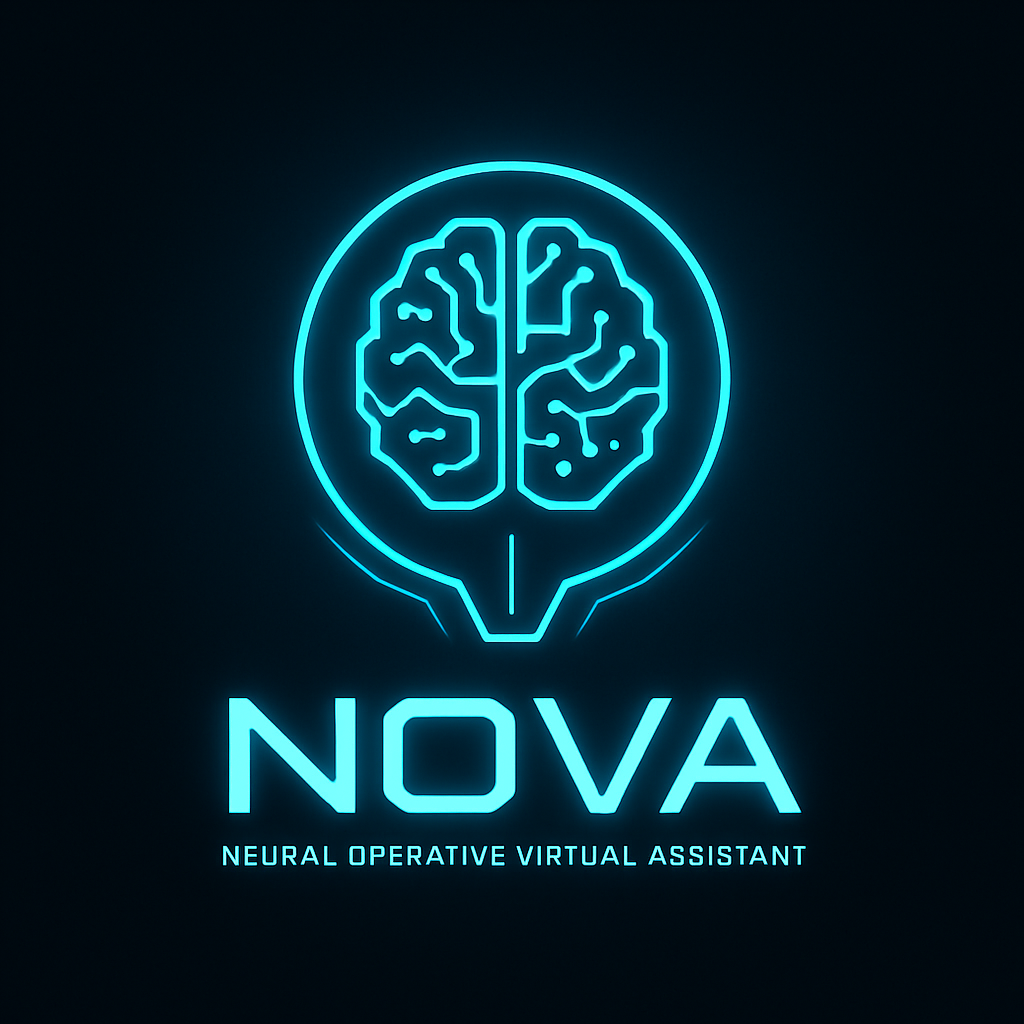
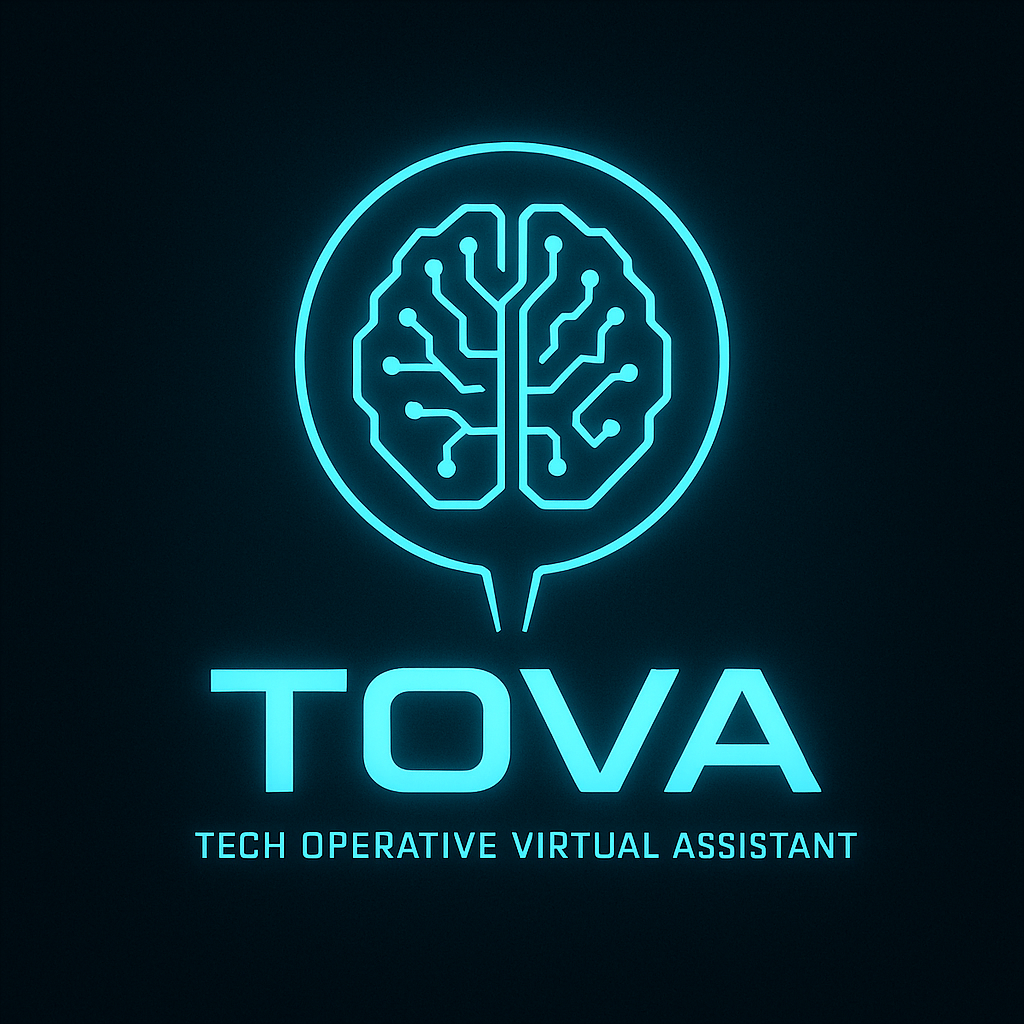
Renamed

Changed region(s): [[0.1875, 0.125, 0.8438, 0.8438]]

diff --git a/main.py b/main.py
@@ -1,5 +1,5 @@
 from core import config
-from core.engine import NovaEngine
+from core.engine import TovaEngine
 from voice.voice_listener import VoiceListener
 from voice.text_to_speech import get_tts
 import threading
@@ -7,13 +7,13 @@ import sys
 
 
 def main():
-    engine = NovaEngine()
+    engine = TovaEngine()
     tts = get_tts()
     listener = None
     tts_lock = threading.Lock()
     
     def on_wake():
-        print("[NOVA] Wake word detected. Listening for command...")
+        print("[TOVA] Wake word detected. Listening for command...")
 
     def on_command(cmd):
         nonlocal listener
@@ -22,9 +22,9 @@ def main():
                 tts.stop()  # Interrupt current speech
             if listener:
                 listener.stop_listening()
-            print(f"[NOVA] Command: {cmd}")
+            print(f"[TOVA] Command: {cmd}")
             result = engine.handle_command(cmd)
-            print(f"[NOVA] Result: {result.get('message', str(result))}")
+            print(f"[TOVA] Result: {result.get('message', str(result))}")
             tts.speaking = True
             tts.speak(result.get("message", str(result)))
             tts.speaking = False
@@ -39,7 +39,7 @@ def main():
         while True:
             pass
     except KeyboardInterrupt:
-        print("[NOVA] Shutting down.")
+        print("[TOVA] Shutting down.")
 
 if __name__ == "__main__":
     main() 

diff --git a/core/engine.py b/core/engine.py
@@ -160,7 +160,7 @@ def friendly_reply(text):
     prefix = random.choice(FRIENDLY_PREFIXES)
     return prefix + text
 
-class NovaEngine:
+class TovaEngine:
     def __init__(self):
         self.memory = Memory()
         self.brain = Brain(memory=self.memory)
@@ -177,7 +177,7 @@ class NovaEngine:
         command = command.strip()
         name = self.brain.get_preference('user_name', 'friend')
         system_prompt = (
-            f"You are NOVA, a helpful Linux AI assistant. Respond to the user's requests, including Linux commands, questions, and general conversation. "
+            f"You are TOVA (Tech Operative Virtual Assistant), a helpful Linux AI assistant. Respond to the user's requests, including Linux commands, questions, and general conversation. "
             f"If the user asks for a command, provide the answer or the command to run. The user's name is {name}. "
             "Please keep your responses short and concise (1-2 sentences), unless the user asks for more detail."
         )

diff --git a/voice/voice_listener.py b/voice/voice_listener.py
@@ -33,7 +33,7 @@ class VoiceListener:
         rec = vosk.KaldiRecognizer(self.model, self.samplerate)
         if self.set_avatar_state:
             self.set_avatar_state('listening')
-        print("[NOVA] VoiceListener: Always listening for commands...")
+        print("[TOVA] VoiceListener: Always listening for commands...")
         with sd.RawInputStream(samplerate=self.samplerate, blocksize = 8000, dtype='int16', channels=1, callback=self._audio_callback):
             while self.listening:
                 data = self.q.get()
@@ -41,7 +41,7 @@ class VoiceListener:
                     result = json.loads(rec.Result())
                     text = result.get('text', '').strip()
                     if text:
-                        print(f"[NOVA] Heard: {text}")
+                        print(f"[TOVA] Heard: {text}")
                         if self.set_avatar_state:
                             self.set_avatar_state('thinking')
                         if self.on_command:

diff --git a/core/config.py b/core/config.py
@@ -1,6 +1,6 @@
 import os
 
-NOVA_NAME = "NOVA"
+TOVA_NAME = "TOVA"
 MEMORY_PATH = os.path.join(os.path.dirname(__file__), '../memory/memory.json')
 LOGS_PATH = os.path.join(os.path.dirname(__file__), '../memory/logs/')
 VOICE = {

diff --git a/README.md b/README.md
@@ -1,12 +1,12 @@
 <div align="center">
-  <img src="assets/image.png" alt="NOVA Logo" width="200"/>
+  <img src="assets/image.png" alt="TOVA Logo" width="200"/>
 </div>
 
 <div align="center">
-  <h1>NOVA: Local Linux AI Voice Assistant</h1>
+  <h1>TOVA: Local Linux AI Voice Assistant</h1>
 </div>
 
-NOVA is a fully local, privacy-first AI voice assistant for Linux, powered by a lightweight LLM (TinyLlama via Ollama). NOVA listens for your voice commands, answers questions, and provides Linux help—all offline, with no cloud dependencies.
+TOVA is a fully local, privacy-first AI voice assistant for Linux, powered by a lightweight LLM (TinyLlama via Ollama). TOVA listens for your voice commands, answers questions, and provides Linux help—all offline, with no cloud dependencies.
 
 ## Features
 - Voice-only activation and interaction
@@ -18,7 +18,7 @@ NOVA is a fully local, privacy-first AI voice assistant for Linux, powered by a 
 
 ## Installation
 1. Clone this repo
-2. `cd NOVA`
+2. `cd TOVA`
 3. Install dependencies: `pip install -r requirements.txt`
 4. [Install Ollama](https://ollama.com/download) and pull the TinyLlama model:
    ```sh
@@ -27,23 +27,23 @@ NOVA is a fully local, privacy-first AI voice assistant for Linux, powered by a 
    ```
 
 ## Usage
-- Start NOVA:
+- Start TOVA:
   ```sh
   python main.py
   ```
 - Speak your command or question when prompted.
-- NOVA will respond with a short answer. You can interrupt her at any time by speaking again.
+- TOVA will respond with a short answer. You can interrupt her at any time by speaking again.
 
 ## How It Works
 - All user input is sent to the local LLM (TinyLlama) via Ollama.
-- NOVA does not use any hardcoded command logic—everything is handled by the LLM.
+- TOVA does not use any hardcoded command logic—everything is handled by the LLM.
 - The system prompt instructs the LLM to keep responses short and professional.
 - Voice recognition is powered by Vosk; text-to-speech uses pyttsx3 or RHVoice.
 
 ## Privacy
-- NOVA runs entirely on your machine. No data is sent to the cloud.
+- TOVA runs entirely on your machine. No data is sent to the cloud.
 - All logs and memory are stored locally and can be deleted at any time.
 
 ---
 
-*Professional, private, and always local—NOVA is your Linux voice companion.* 
+*Professional, private, and always local—TOVA is your Linux voice companion.* 

diff --git a/tools/custom/README.md b/tools/custom/README.md
@@ -1,3 +1,3 @@
-# Custom Tools for NOVA
+# Custom Tools for TOVA
 
-Drop your Python modules here. Each should define callable functions that accept plain-language input and return structured responses (dicts). NOVA will auto-detect and load them at runtime. 
+Drop your Python modules here. Each should define callable functions that accept plain-language input and return structured responses (dicts). TOVA will auto-detect and load them at runtime. 

diff --git a/memory/logs/README.md b/memory/logs/README.md
@@ -1,3 +1,3 @@
-# NOVA Logs
+# TOVA Logs
 
 This directory stores all action logs, with timestamps and results, for auditing and history queries. 
